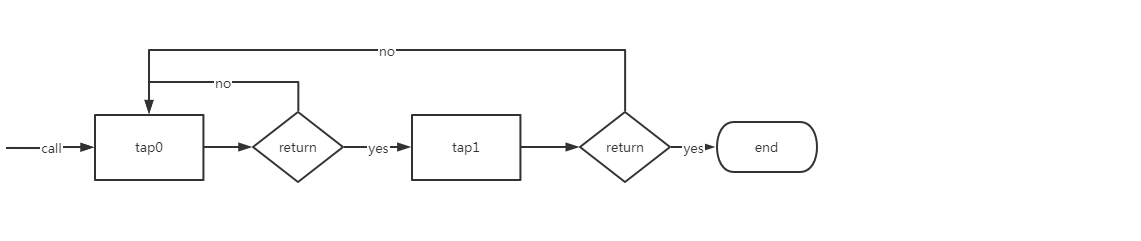
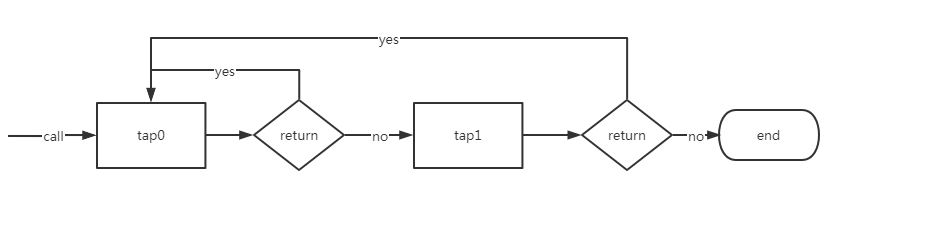
修改文案

diff --git a/source/_posts/tapable-hook介绍.md b/source/_posts/tapable-hook介绍.md
@@ -37,7 +37,7 @@ author: 牛犇
 * Sync/Async: 同步/异步;
 * Bail: 可退出`Hook`, 当订阅事件有`return`返回值时，则不执行之后的订阅事件;
 * Waterfall: 可以传递值。当前一个事件可以把值传给后一个事件;
-* Loop: 循环执行事件。当事件没有`return`返回值时会循环执行当前事件，直到有`return`返回值时才退出执行下一个事件;
+* Loop: 循环执行事件。当事件有`return`返回值时会循环执行当前事件，直到没有`return`返回值时才退出执行下一个事件;
 * AsyncParallel: 异步并行;
 * AsyncSeries: 异步串行;
 
@@ -135,7 +135,7 @@ Ben,Tom,Piter,Luci
 ### syncLoopHook  
 ![syncLoopHook](./syncLoopHook.png)  
 
-`syncLoopHook`相比`syncHook`增加一个循环机制：当订阅事件没有`return`时会继续执行该事件，直到事件有`return`为止;
+`syncLoopHook`相比`syncHook`增加一个循环机制：当订阅事件有`return`时会继续执行该事件，直到事件没有`return`再执行下一个事件;
 `syncLoopHook`可以用于需要递归的场景，比如遍历树节点之类;示例代码如下:
 ```js
 import {SyncLoopHook}  from "tapable";  
